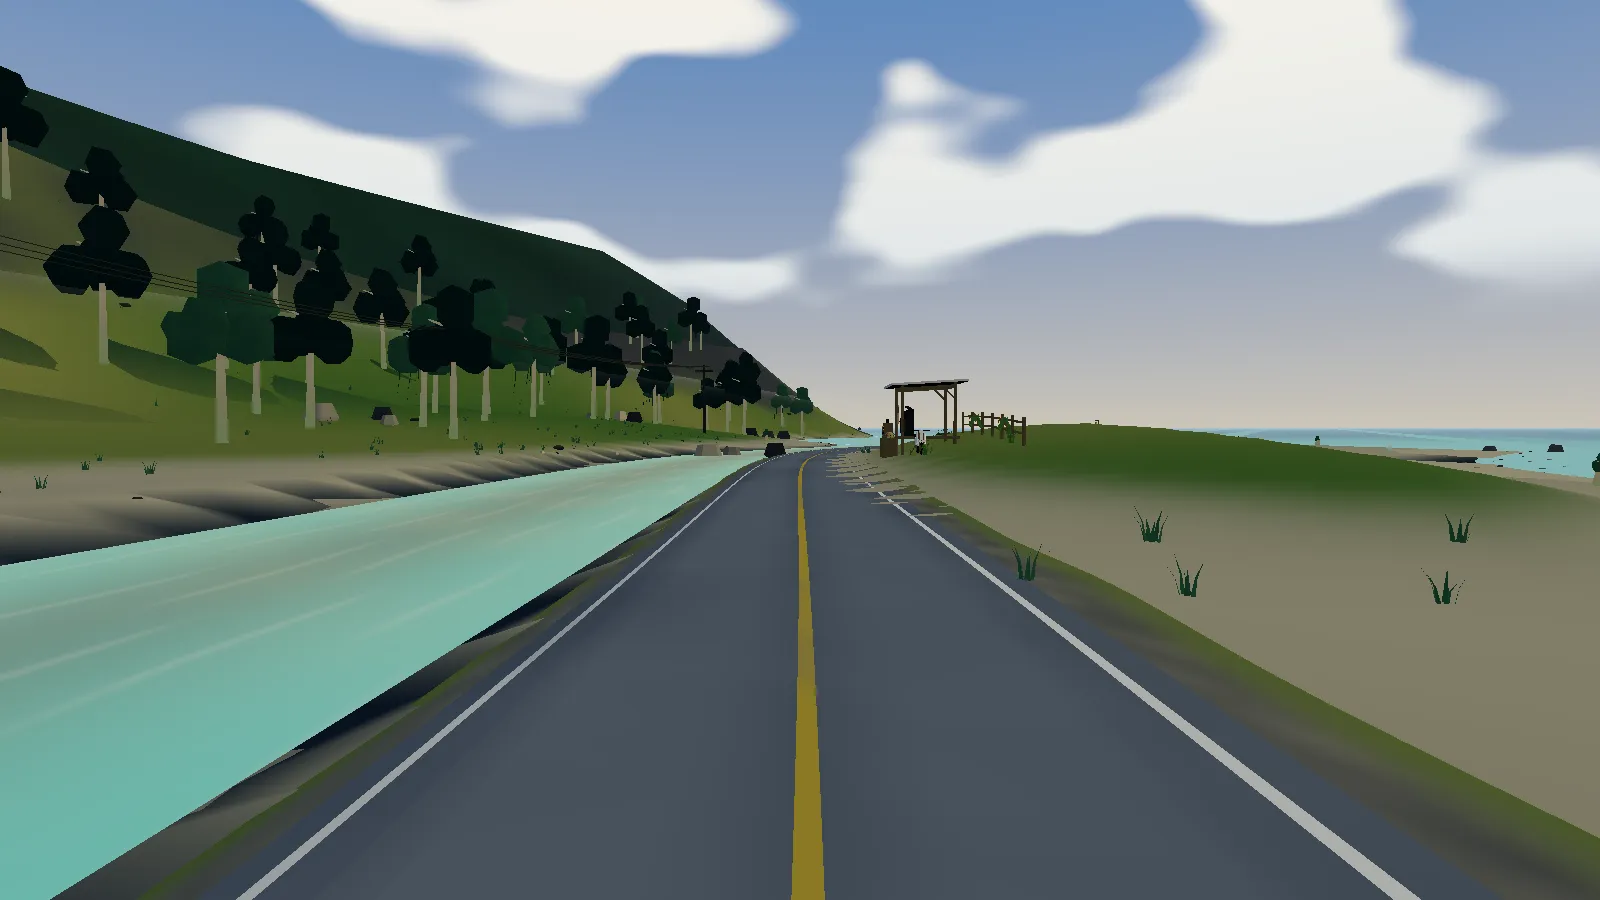
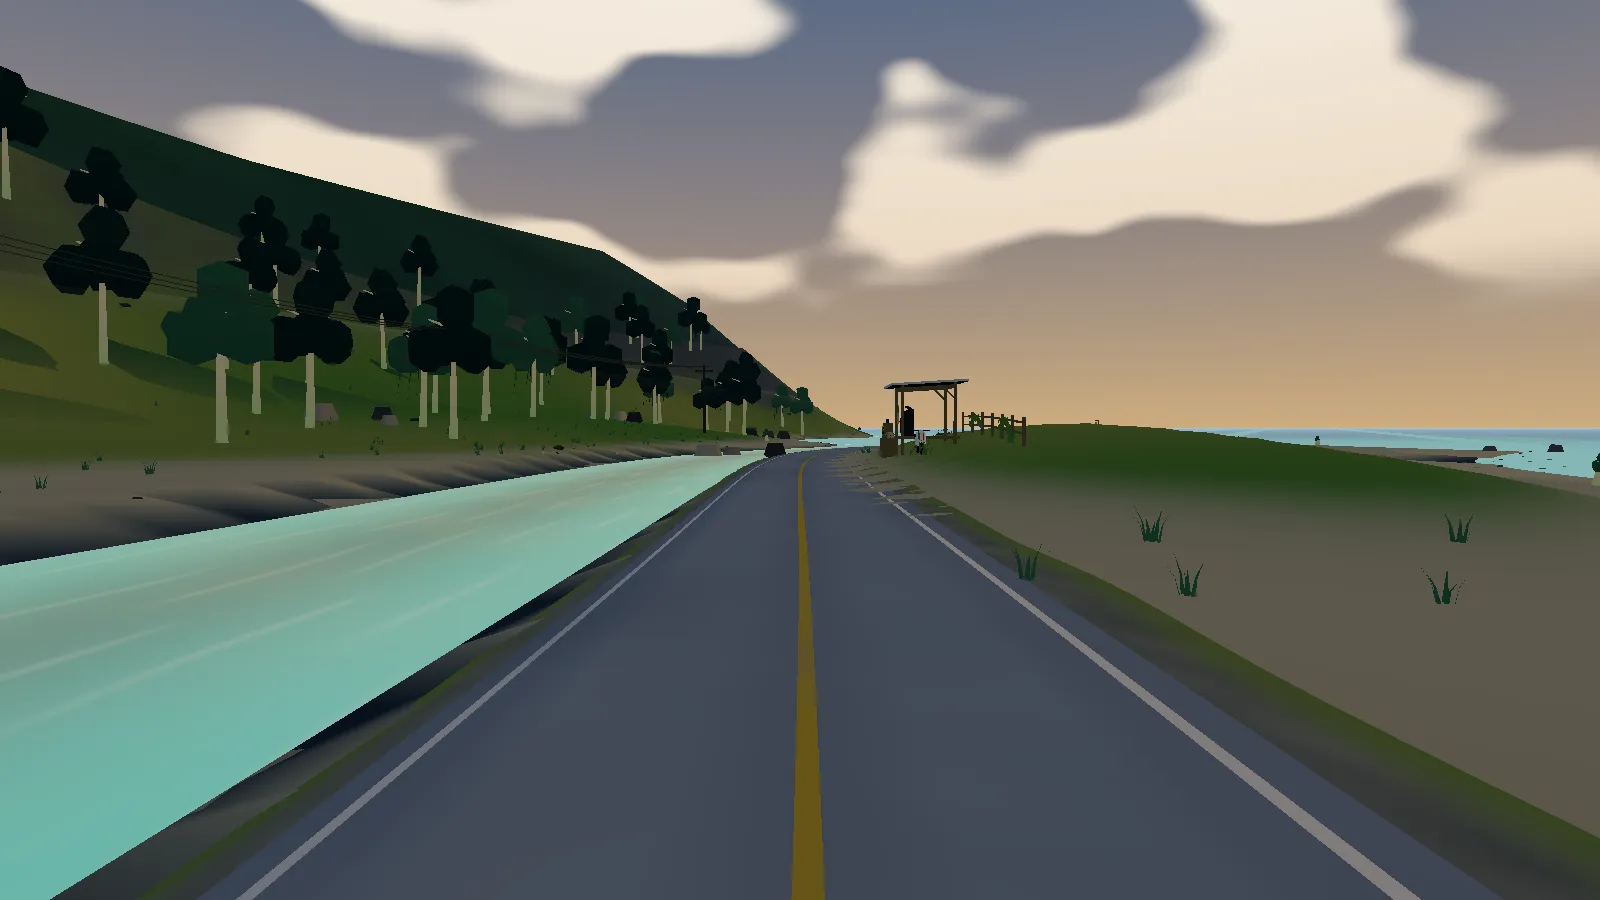
docs(showcase): batch 25 re-shot with dawn forest / dusk coast; time to playable 5.77 s

diff --git a/docs/showcase/25-tranh-chan-that/checklist.md b/docs/showcase/25-tranh-chan-that/checklist.md
@@ -39,8 +39,17 @@
   - Trước đây camera chỉ thấy 100 m nên không thấy biển và núi xa.
   - Giờ tầm nhìn là 260 / 500 / 800 m theo mức chất lượng, có thêm lớp phong cảnh xa.
 
+## Cập nhật 2026-11-06 (sau góp ý của Duy)
+
+- **Ánh sáng theo spec V6** (B2-180). Ảnh trong thư mục này đã chụp lại theo ánh sáng mới.
+  - Rừng: bình minh le lói. Mặt trời thấp khoảng 5° sau rừng, chân trời hồng đào, sương sớm.
+  - Biển: hoàng hôn. Mặt trời khoảng 3,5° trên biển, trời cam hồng.
+  - Đồi ở giữa là đoạn sáng nhất.
+- **Thời gian vào chơi: 5,77 s** (lượt xấu nhất trong 3 lần đo, máy rảnh). Trước B2-179 là 8,35 s.
+
 ## Lead biết còn thiếu, sẽ làm tiếp
 
+- Nước (suối và biển) còn xanh ngọc sáng như ban ngày, chưa nhận màu hoàng hôn. Gần chân trời vẫn còn vài vệt sáng thẳng.
 - Thân cây lá rộng còn hơi nhạt và dài.
-- Cây trên sườn núi ven biển, khi nhìn ngược nắng, gần như đen.
-- **Thời gian vào chơi tăng từ 4,96 s lên 8,35 s** (vẫn PASS, ngưỡng 10 s). Ticket B2-179 đang dời các phần dựng không cần ngay ra sau khung hình đầu.
+- Cây trên sườn núi ven biển gần như đen khi nhìn ngược nắng.
+- Mọi hình khối vẫn là khung. Bước tiếp theo là làm asset kỹ.
